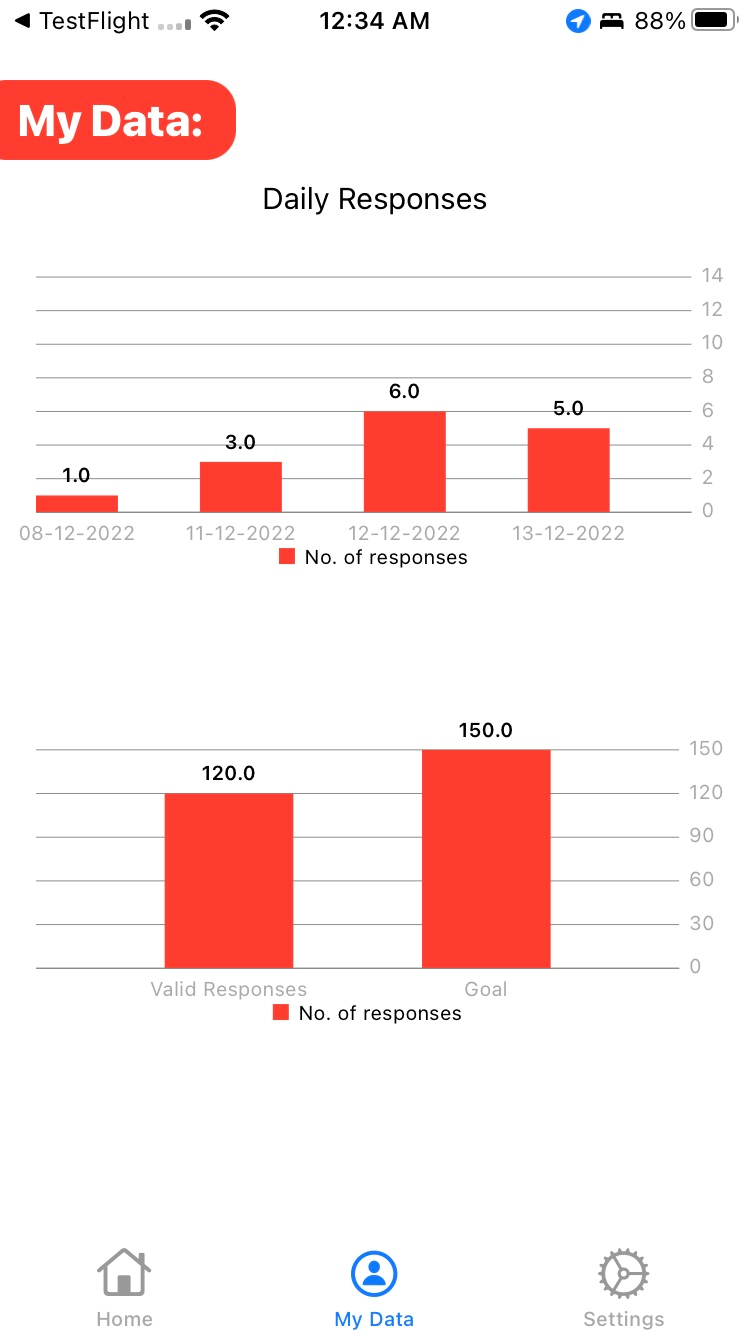
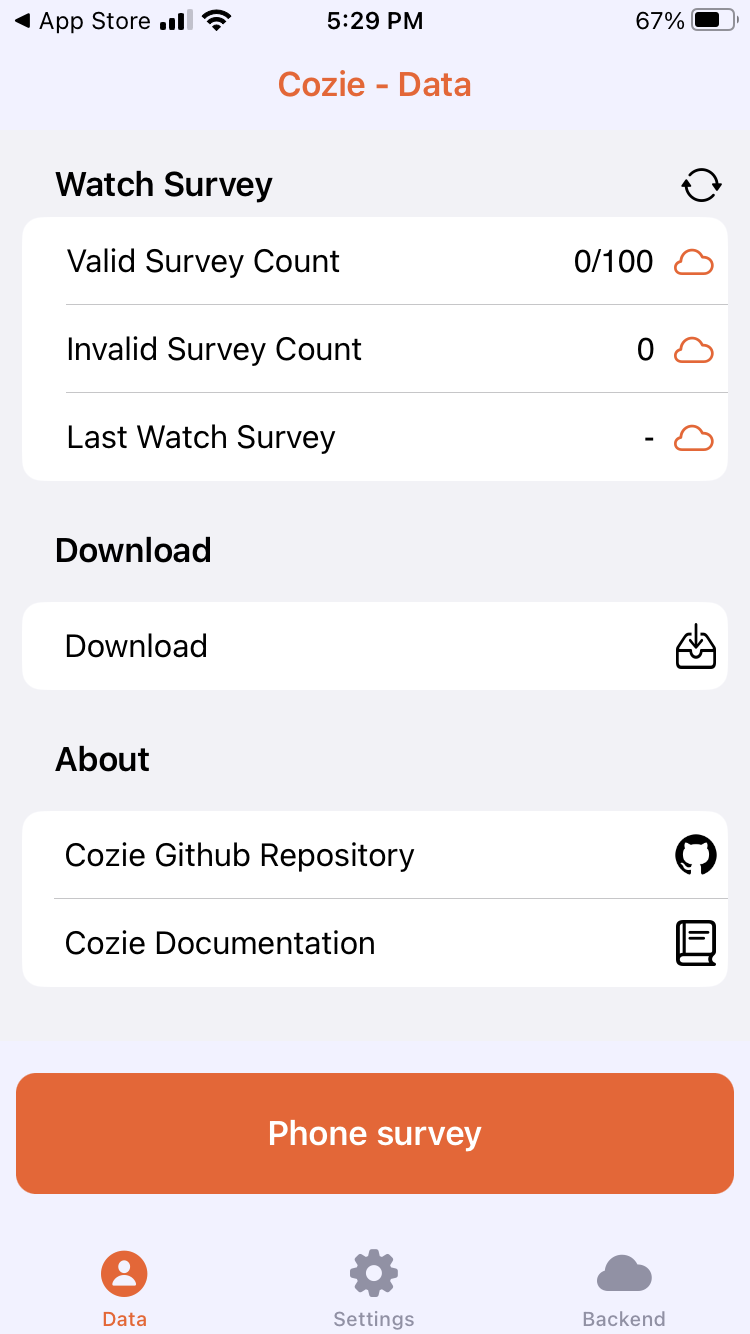
update images for installation page

diff --git a/docs/1_project_overview/installation.md b/docs/1_project_overview/installation.md
@@ -21,9 +21,9 @@ This short guide will explain how to set up and install Cozie on your iPhone and
 
 3. In the Cozie app, you will see three tabs. The home page , my data and settings tab. 
 
-    <img alt="Home page" src={useBaseUrl('img/cozie_tab_home.png')}width="30%" /> &nbsp;
-    <img alt="My data page" src={useBaseUrl('img/cozie_tab_data.png')}width="30%" /> &nbsp;
-    <img alt="Settings page" src={useBaseUrl('img/cozie_settings_tab_reminders_disabled.png')}width="30%" />
+    <img alt="Data tab" src={useBaseUrl('img/cozie_tab_data.png')}width="30%" /> &nbsp;
+    <img alt="Settings tab" src={useBaseUrl('img/cozie_tab_settings.png')}width="30%" /> &nbsp;
+    <img alt="Backend tab" src={useBaseUrl('img/cozie_tab_backend.png')}width="30%" />
     <br/> 
 
 
